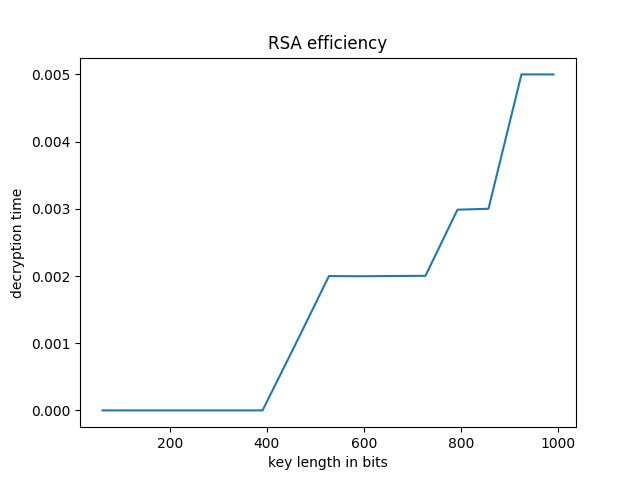
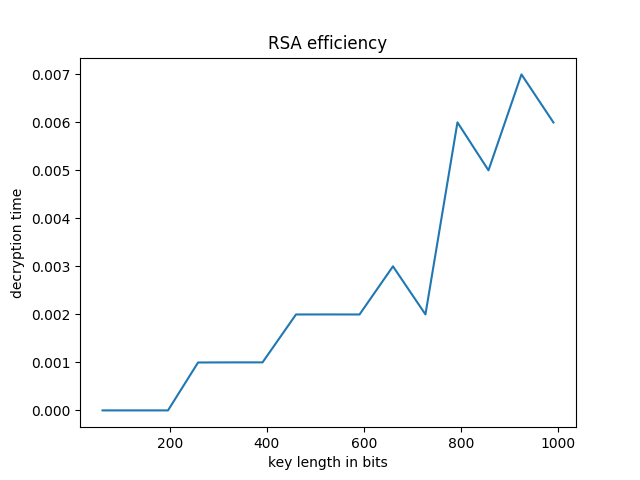
update code

diff --git a/reciever.py b/reciever.py
@@ -67,13 +67,6 @@ def reciever_program():
 
 
         message = input(' enter message -> ')
-        splited_message = common_functions.splitToGroups(message)
-        m = common_functions.convertToInt(splited_message)
-        while (max(m) > n):
-            print("max allowed length of message is only ")
-            message = input("-> ")
-            splited_message = common_functions.splitToGroups(message)
-            m = common_functions.convertToInt(splited_message)
         C = mySender.encryption(message)
         client_socket.send(C.encode())  # send data to the client
         print(client_socket.recv(1024).decode())

diff --git a/sender.py b/sender.py
@@ -63,14 +63,6 @@ def sender_program():
 
     while True:
         message = input(' enter message -> ')
-
-        splited_message = common_functions.splitToGroups(message)
-        m = common_functions.convertToInt(splited_message)
-        while (max(m) > n):
-            print("max allowed length of message is only ")
-            message = input("-> ")
-            splited_message = common_functions.splitToGroups(message)
-            m = common_functions.convertToInt(splited_message)
         C = mySender.encryption(message)
         conn.send(C.encode())  # send data to the client
         print(conn.recv(1024).decode())

diff --git a/common_functions.py b/common_functions.py
@@ -76,10 +76,10 @@ def generate_pq(n):
 # generate p, q primes numbers
 def gererate_pq_primes():
     # any range, I choose this!
-    p = sympy.randprime((9999), (200000))
+    p = sympy.randprime((20000), (200000))
     while True:
         # q = sympy.randprime(2**(2047), 2**(20048)-1)
-        q = sympy.randprime((9999), (200000))
+        q = sympy.randprime((20000), (200000))
         if p != q:
             break
     return p, q

diff --git a/effeciency.py b/effeciency.py
@@ -70,7 +70,7 @@ print(decryption_time)
 print("corresponding key lengths in bits:")
 print(key_lengths)
 # plotting the key length VS decryption time (efficiency)
-plt.plot(key_lengths, encryption_time)
+plt.plot(key_lengths, decryption_time)
 plt.xlabel('key length in bits')
 plt.ylabel('decryption time')
 plt.title('RSA efficiency')
